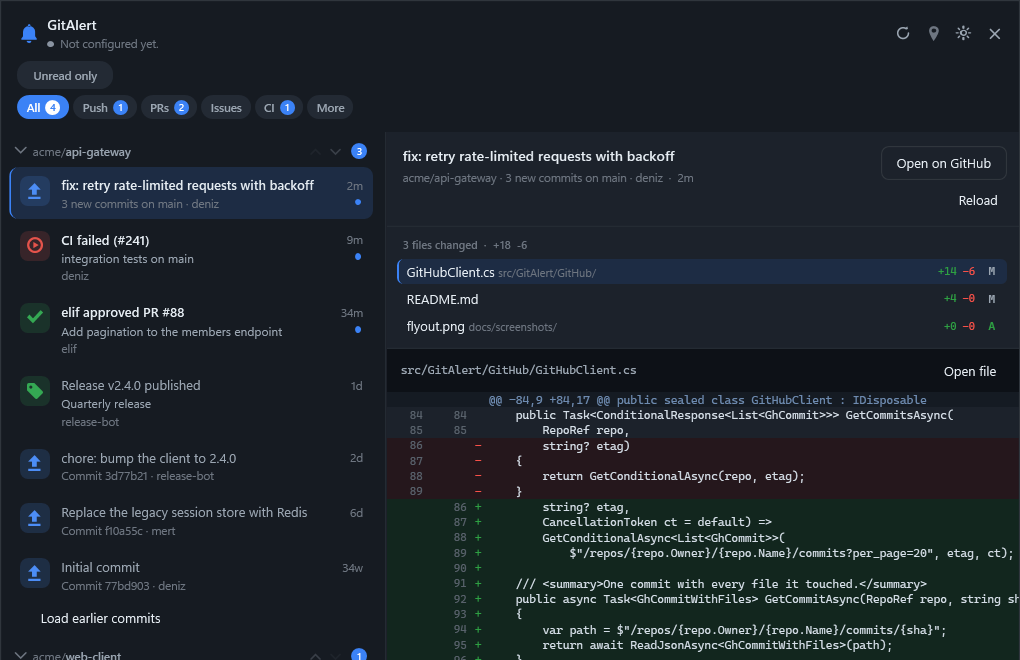
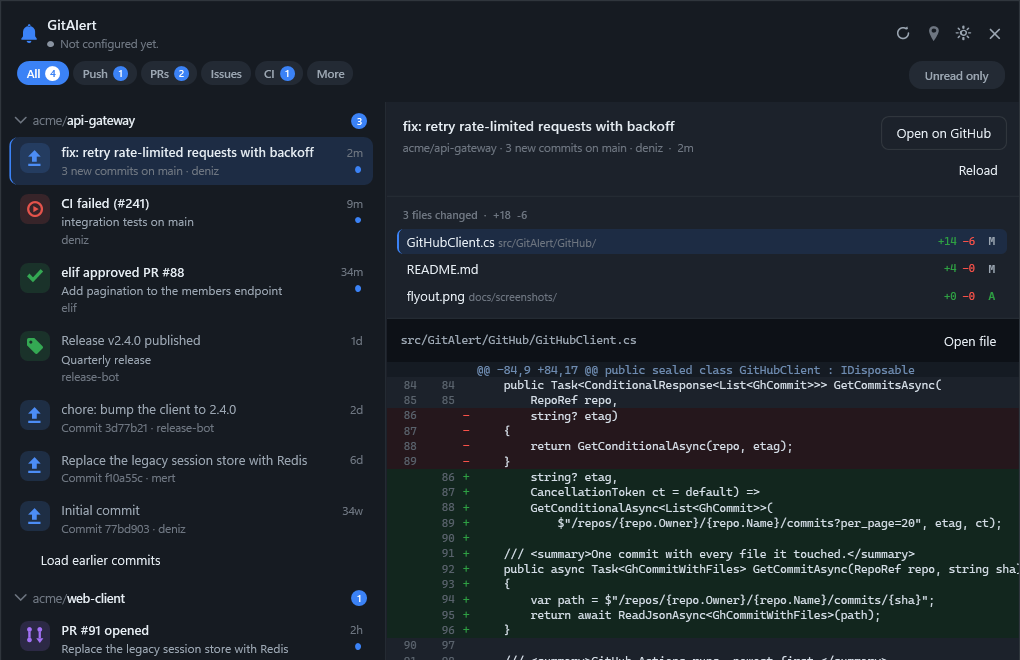
change: a UX pass on the list, against published guidance
Worked through what several design systems and NN/g say about list entries
rather than trusting one opinion, and the screenshot disagreed with them in
five places.

Trailing actions belong on hover (Primer's ActionList guidance): the reorder
arrows sat permanently on every project header, giving four rows of controls
nobody was using. They now appear on hover, keyboard focus still reaches them.

A row per control is not density (NN/g on entry hierarchy): the lone "unread
only" chip had a row to itself above the category chips. Both share one row now,
which is a whole alert's worth of height back. Row padding came down with it -
three attributes did not need 52 pixels - so eight rows fit where five did.

Grouping should read before content: the project name was dimmer than the alert
titles under it, inverting the hierarchy. It is now the brightest thing in the
section header.

The diff pane looked unfinished under a short diff, because the empty area below
the code carried the header's surface colour. The code surface now extends
through the pane, so the space reads as the end of the diff.

And a real bug the pass turned up: RelativeTime returns "now" under a minute,
which the header printed as "updated now ago".

diff --git a/src/GitAlert/Views/FlyoutWindow.xaml b/src/GitAlert/Views/FlyoutWindow.xaml
@@ -43,7 +43,7 @@
                     BorderBrush="Transparent"
                     BorderThickness="2,0,0,0"
                     CornerRadius="9"
-                    Padding="9,9,10,9"
+                    Padding="9,7,10,7"
                     Margin="0,1">
               <ContentPresenter />
             </Border>
@@ -255,16 +255,16 @@
             <TextBlock Grid.Column="1"
                        Margin="7,0,8,0"
                        VerticalAlignment="Center"
-                       FontSize="12"
+                       FontSize="12.5"
                        FontWeight="SemiBold"
-                       TextTrimming="CharacterEllipsis"><Run Text="{Binding OwnerPrefix, Mode=OneWay}" Foreground="{DynamicResource TextMuted}" FontWeight="Normal" /><Run Text="{Binding Name, Mode=OneWay}" Foreground="{DynamicResource TextSecondary}" /></TextBlock>
+                       TextTrimming="CharacterEllipsis"><Run Text="{Binding OwnerPrefix, Mode=OneWay}" Foreground="{DynamicResource TextMuted}" FontWeight="Normal" /><Run Text="{Binding Name, Mode=OneWay}" Foreground="{DynamicResource TextPrimary}" /></TextBlock>
 
             <StackPanel x:Name="Arrows"
                         Grid.Column="2"
                         Orientation="Horizontal"
                         Margin="0,0,6,0"
                         VerticalAlignment="Center"
-                        Opacity="0.4">
+                        Opacity="0">
               <Button Style="{StaticResource ArrowButton}"
                       Command="{Binding MoveUpCommand}"
                       IsEnabled="{Binding CanMoveUp}"
@@ -449,8 +449,8 @@
       <Border x:Name="Row" Background="Transparent">
         <Grid>
           <Grid.ColumnDefinitions>
-            <ColumnDefinition Width="44" />
-            <ColumnDefinition Width="44" />
+            <ColumnDefinition Width="38" />
+            <ColumnDefinition Width="38" />
             <ColumnDefinition Width="14" />
             <ColumnDefinition Width="*" />
           </Grid.ColumnDefinitions>
@@ -623,36 +623,43 @@
 
       <StackPanel Grid.Row="1" Margin="16,0,14,8">
 
-        <!-- Alerts and commits are one timeline now, so there is no mode to choose. What is
-             left is the one switch that changes what the list contains rather than how it is
-             arranged; ordering the projects is done on the sections themselves. -->
-        <Border CornerRadius="13"
-                Padding="2"
-                Margin="0,0,0,7"
-                HorizontalAlignment="Left"
-                Background="{DynamicResource ChipBackground}">
-          <Button Style="{StaticResource ModeChip}"
-                  Content="Unread only"
-                  Tag="{Binding UnreadOnly}"
-                  ToolTip="Show only alerts you have not read, and only the projects that have some"
-                  Command="{Binding ToggleUnreadOnlyCommand}" />
-        </Border>
+        <!-- Both filters on one row: what kind, and whether read alerts count. A row per
+             control cost more height than the first alert was worth. -->
+        <Grid>
+          <Grid.ColumnDefinitions>
+            <ColumnDefinition Width="*" />
+            <ColumnDefinition Width="Auto" />
+          </Grid.ColumnDefinitions>
 
-        <ItemsControl ItemsSource="{Binding Filters}">
-          <ItemsControl.ItemsPanel>
-            <ItemsPanelTemplate>
-              <WrapPanel Orientation="Horizontal" />
-            </ItemsPanelTemplate>
-          </ItemsControl.ItemsPanel>
-          <ItemsControl.ItemTemplate>
-            <DataTemplate>
-              <Button Style="{StaticResource FilterChip}"
-                      Margin="0,0,4,5"
-                      Command="{Binding DataContext.SelectFilterCommand, RelativeSource={RelativeSource AncestorType=Window}}"
-                      CommandParameter="{Binding}" />
-            </DataTemplate>
-          </ItemsControl.ItemTemplate>
-        </ItemsControl>
+          <ItemsControl Grid.Column="0" ItemsSource="{Binding Filters}">
+            <ItemsControl.ItemsPanel>
+              <ItemsPanelTemplate>
+                <WrapPanel Orientation="Horizontal" />
+              </ItemsPanelTemplate>
+            </ItemsControl.ItemsPanel>
+            <ItemsControl.ItemTemplate>
+              <DataTemplate>
+                <Button Style="{StaticResource FilterChip}"
+                        Margin="0,0,4,5"
+                        Command="{Binding DataContext.SelectFilterCommand, RelativeSource={RelativeSource AncestorType=Window}}"
+                        CommandParameter="{Binding}" />
+              </DataTemplate>
+            </ItemsControl.ItemTemplate>
+          </ItemsControl>
+
+          <Border Grid.Column="1"
+                  CornerRadius="13"
+                  Padding="2"
+                  Margin="8,0,0,5"
+                  VerticalAlignment="Top"
+                  Background="{DynamicResource ChipBackground}">
+            <Button Style="{StaticResource ModeChip}"
+                    Content="Unread only"
+                    Tag="{Binding UnreadOnly}"
+                    ToolTip="Show only alerts you have not read, and only the projects that have some"
+                    Command="{Binding ToggleUnreadOnlyCommand}" />
+          </Border>
+        </Grid>
       </StackPanel>
 
       <!-- ==================== List and detail ==================== -->
@@ -829,9 +836,11 @@
 
                         <ScrollViewer Grid.Row="1"
                                       Style="{StaticResource SlimScrollViewer}"
+                                      Background="{DynamicResource SurfaceSunken}"
                                       HorizontalScrollBarVisibility="Auto">
                           <ItemsControl ItemsSource="{Binding SelectedFile.Lines}"
-                                        ItemTemplate="{StaticResource DiffLineTemplate}" />
+                                        ItemTemplate="{StaticResource DiffLineTemplate}"
+                                        VerticalAlignment="Top" />
                         </ScrollViewer>
 
                         <TextBlock Grid.Row="2"

diff --git a/src/GitAlert/ViewModels/FlyoutViewModel.cs b/src/GitAlert/ViewModels/FlyoutViewModel.cs
@@ -414,7 +414,15 @@ public sealed partial class FlyoutViewModel : ObservableObject, IDisposable
     private void UpdateLastUpdated()
     {
         var last = _monitor.Status.LastSuccess;
-        LastUpdatedText = last is null ? string.Empty : $"updated {RelativeTime.Format(last.Value)} ago";
+        if (last is null)
+        {
+            LastUpdatedText = string.Empty;
+            return;
+        }
+
+        // Format returns "now" for anything under a minute, and "updated now ago" is not English.
+        var age = RelativeTime.Format(last.Value);
+        LastUpdatedText = age == "now" ? "updated just now" : $"updated {age} ago";
     }
 
     private void UpdateEmptyMessage(MonitorStatus status) =>
